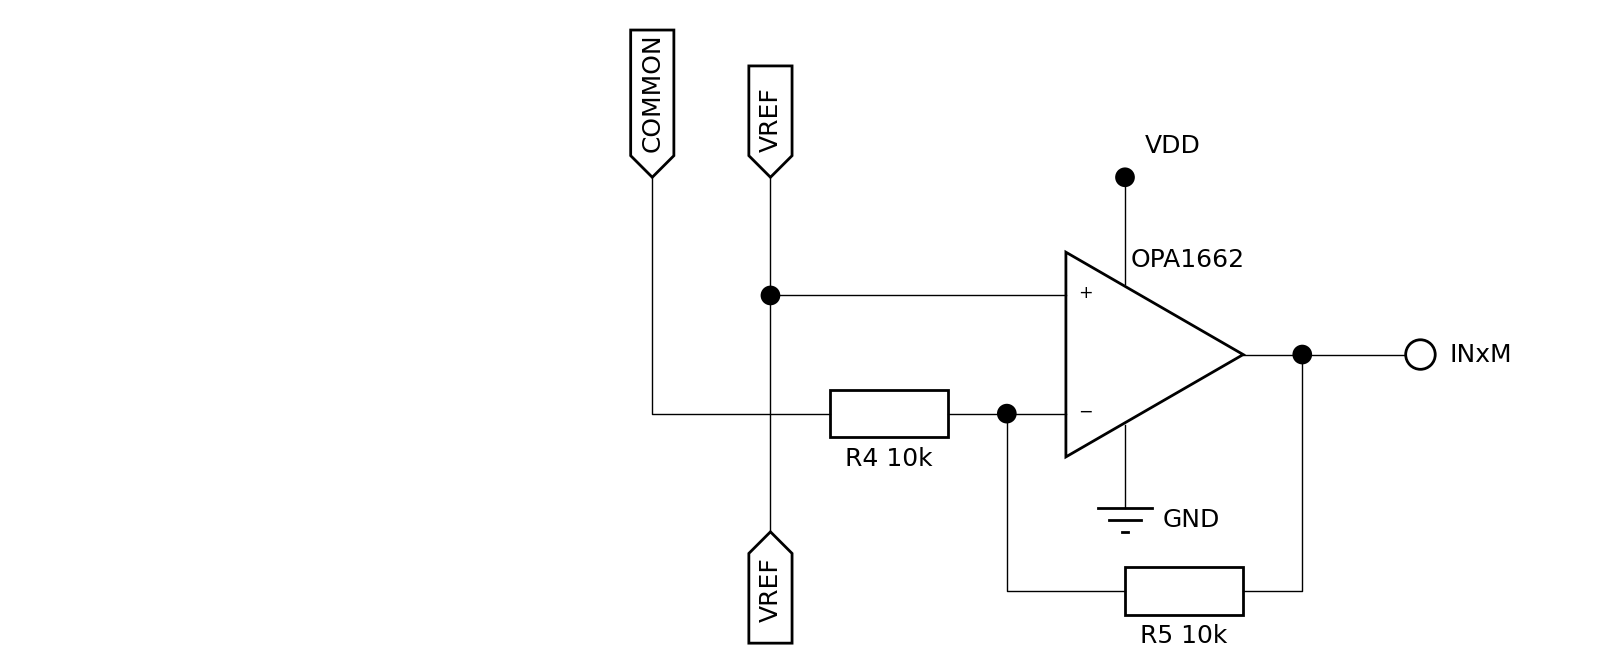
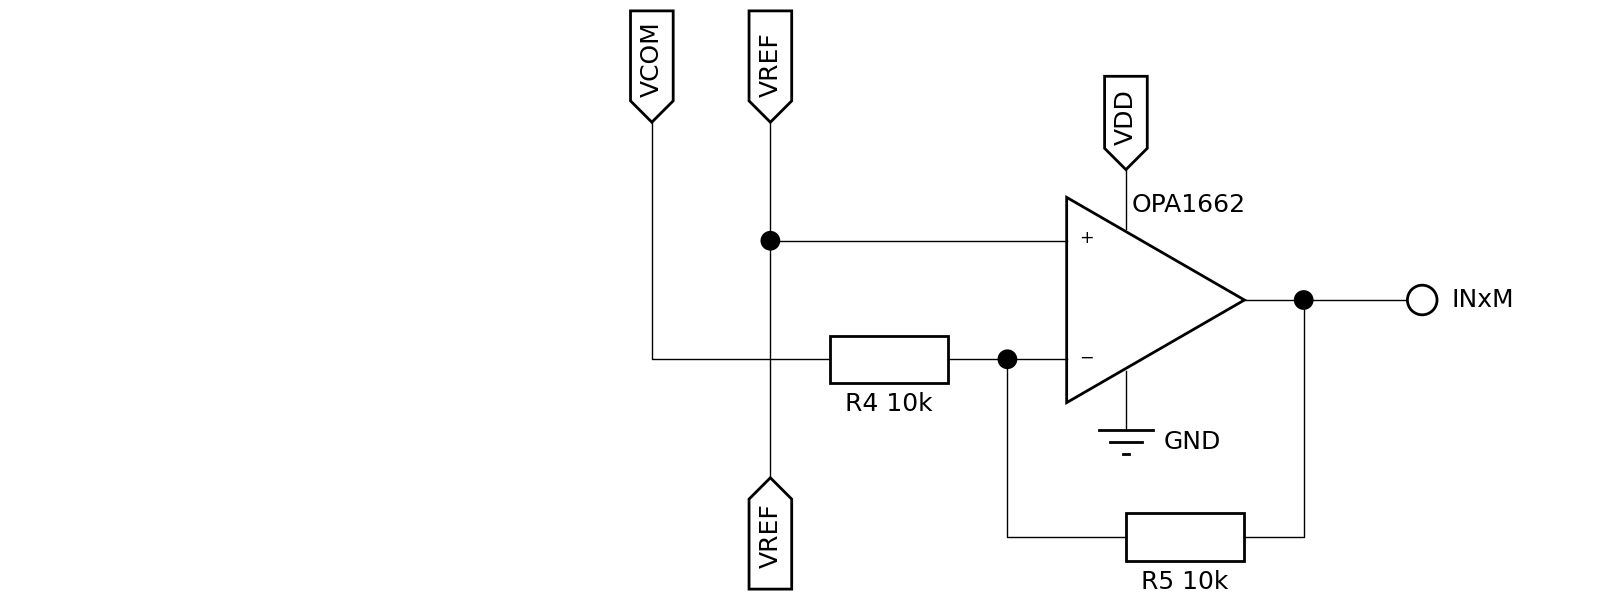
[R5.0] compacter circuits

diff --git a/R5.0/preampinv.py b/R5.0/preampinv.py
@@ -4,47 +4,47 @@ from matplotlib.patches import Rectangle
 
 plt.rcParams['font.size'] = 18
 
-fig, ax = plt.subplots(figsize=(16, 11))
+fig, ax = plt.subplots(figsize=(16, 7.1))
 fig.subplots_adjust(nomargins=True)
 ax.show_spines('')
 #ax.set_xticks_off()
 #ax.set_yticks_off()
 
 ax.set_xlim(-1.5, 12)
-ax.set_ylim(0, 8)
+ax.set_ylim(1, 7)
 ax.set_aspect('equal')
 
 pn, pp, po, pg, pw = ax.opamp_l((8, 5), 'OPA1662')
-gnd1 = ax.ground(pg.down(0.8), 'GND')
+gnd1 = ax.ground(pg.down(0.6), 'GND')
 ax.connect((pg, gnd1))
-npwr = ax.bus(pw.up(0.9), 'VDD', align='top')
+npwr = ax.bus(pw.up(0.5), 'VDD', align='top')
 ax.connect((pw, npwr))
 
 ng1 = ax.node(pn.left(0.5))
 r4l, r4r = ax.resistance_h(ng1.left(1), 'R4 10k', align='bottom')
 ngr = ax.node(r4l.left(2.5))
-c1l, c1r = ax.capacitance_h(ngr.left(1), 'C1 10$\\mu$F', align='bottom')
+c1l, c1r = ax.capacitance_h(ngr.left(1), 'C1 10$\\mu$F', align='top')
 nsc = ax.node(c1l.left(1))
 ns1 = ax.pin(nsc.left(1), 'SIGNAL\nx1', align='left')
 ax.connect((ns1, nsc, c1l, None, c1r, r4l, None, r4r, ng1, pn))
 
-r1b, r1t = ax.resistance_v(nsc.up(1.5), 'R1 1M', align='left')
-ns2 = ax.pin(r1t.up(1).left(1), 'SIGNAL\nx0.1', align='left')
+r1b, r1t = ax.resistance_v(nsc.up(1), 'R1 1M', align='left')
+ns2 = ax.pin(r1t.up(0.5).left(1), 'SIGNAL\nx0.1', align='left')
 ax.connect((nsc, r1b, None, r1t, ns2))
 
-r3b, r3t = ax.resistance_v(ngr.down(1.5), 'R3 10k', align='left')
+r3b, r3t = ax.resistance_v(ngr.down(1), 'R3 10k', align='left')
 nrc = ax.node(r3b.down(0.5).right(1))
 ax.connect((ngr, r3t, None, r3b, nrc))
-nc = ax.bus(nrc.down(0.5), 'COMMON', align='south')
-ax.connect((nrc.up(6), nc))
+nc = ax.bus(nrc.down(0.5), 'VCOM', align='south')
+ax.connect((nrc.up(4.5), nc))
 
 np = ax.node(pp.left(2.5))
-ax.connect((np.up(2.5), np,  pp))
-nr = ax.bus(np.down(4), 'VREF', align='south')
+ax.connect((np.up(1.5), np,  pp))
+nr = ax.bus(np.down(3.5), 'VREF', align='south')
 ax.connect((np, nr))
 
-r2b, r2t = ax.resistance_v(nsc.down(1.5), 'R2 100k', align='left')
-gnd2 = ax.ground(r2b.down(1), 'GND')
+r2b, r2t = ax.resistance_v(nsc.down(1), 'R2 100k', align='left')
+gnd2 = ax.ground(r2b.down(0.5), 'GND')
 ax.connect((nsc, r2t, None, r2b, gnd2))
 
 ng2 = ax.node(po.right(0.5))

diff --git a/R5.0/refampinv.py b/R5.0/refampinv.py
@@ -4,25 +4,25 @@ from matplotlib.patches import Rectangle
 
 plt.rcParams['font.size'] = 18
 
-fig, ax = plt.subplots(figsize=(16, 6.5))
+fig, ax = plt.subplots(figsize=(16, 6))
 fig.subplots_adjust(nomargins=True)
 ax.show_spines('')
 #ax.set_xticks_off()
 #ax.set_yticks_off()
 
 ax.set_xlim(-1.5, 12)
-ax.set_ylim(2.5, 8)
+ax.set_ylim(2.5, 7.5)
 ax.set_aspect('equal')
 
 pn, pp, po, pg, pw = ax.opamp_l((8, 5), 'OPA1662')
-gnd1 = ax.ground(pg.down(0.8), 'GND')
+gnd1 = ax.ground(pg.down(0.6), 'GND')
 ax.connect((pg, gnd1))
-npwr = ax.node(pw.up(0.9), 'VDD')
+npwr = ax.bus(pw.up(0.5), 'VDD', align='top')
 ax.connect((pw, npwr))
 
 ng1 = ax.node(pn.left(0.5))
 r4l, r4r = ax.resistance_h(ng1.left(1), 'R4 10k', align='bottom')
-nc = ax.bus(r4l.left(1.5).up(2), 'COMMON', align='north')
+nc = ax.bus(r4l.left(1.5).up(2), 'VCOM', align='north')
 ax.connect((nc, r4l, None, r4r, ng1, pn))
 
 npr = ax.node(pp.left(2.5))

diff --git a/R5.0/README.md b/R5.0/README.md
@@ -103,14 +103,14 @@ For programming instructions see page 109 of the [TI TLV320ADC5140 data sheet](t
 - R4=10k and R5=10k for a 1x gain (gain=R5/R4).
 - no low-pass filter, this is handled by the TLV chip.
 - each signal is amplified relative to VREF.
-- the COMMON reference measures the average of all the signals.
-- the TLV chip amplifies the pre-amplified signals versus the preamplified COMMON reference.
+- the VCOM reference measures the average of all the signals.
+- the TLV chip amplifies the pre-amplified signals versus the preamplified VCOM reference.
 
-### Common-amplifier
+### Common reference amplifier
 
 ![refampinv](images/refampinv.png)
 
-- the COMMON reference is amplified in the same way as each signal
+- the VCOM reference is amplified in the same way as each signal
 - the amplified output provides the negative input against which the
   TLV measures the amplified signals in differential mode.
 
